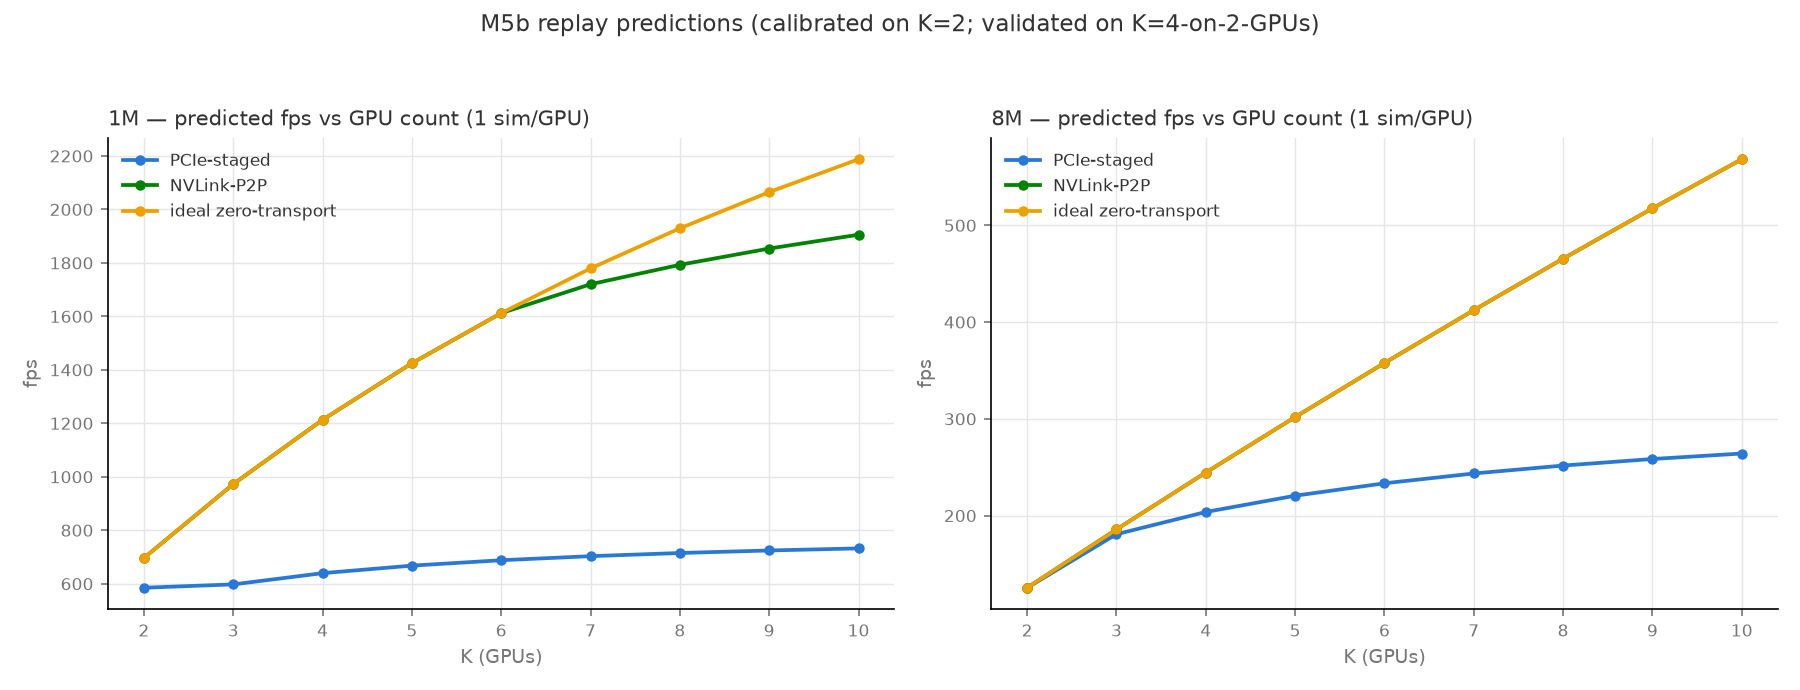
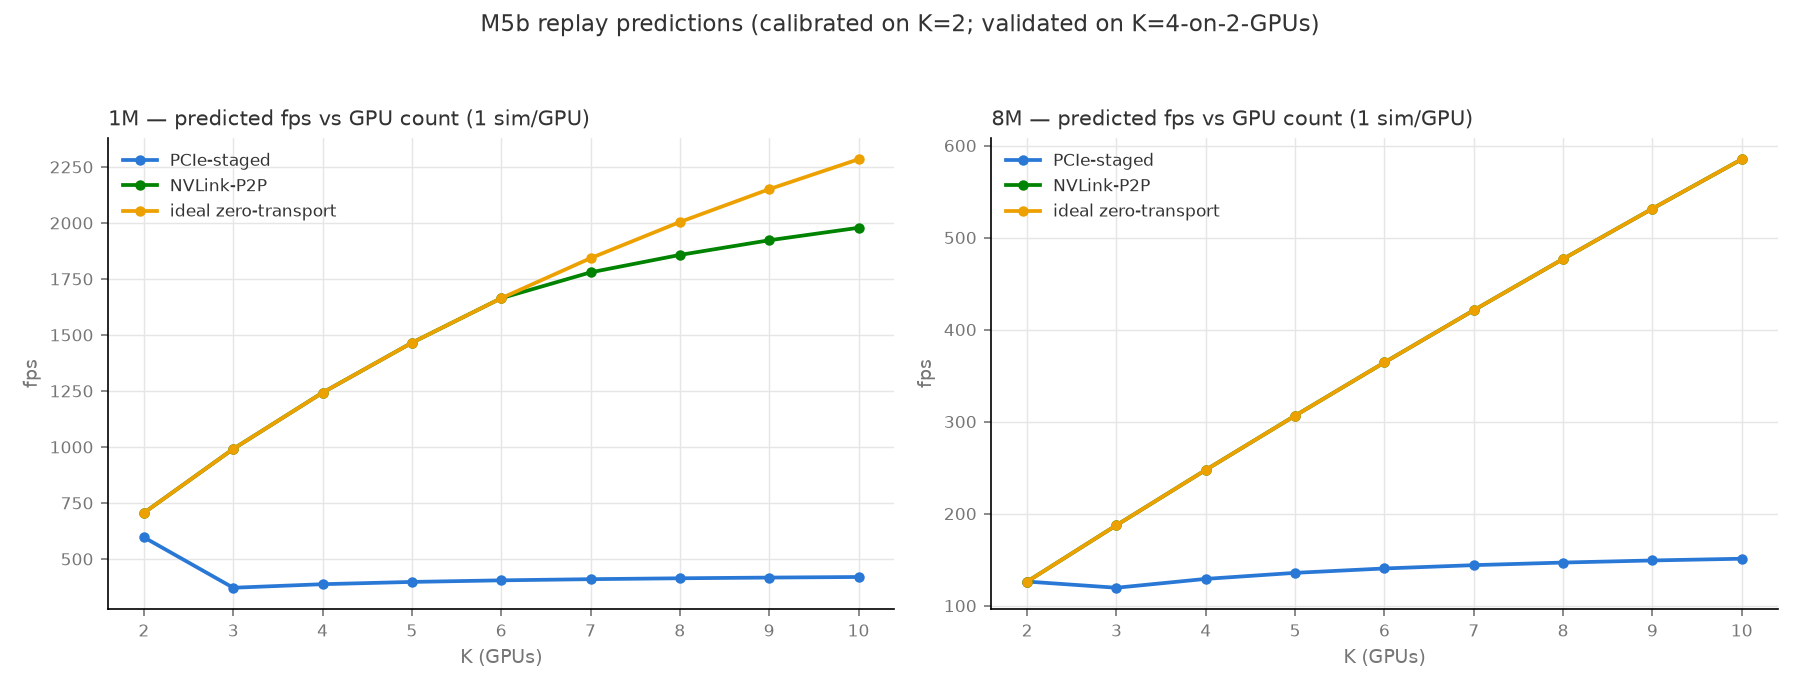
V5 M5b: host memcpy serialization model — zero-fit validation PASS
The post-reboot 1M K-sweep re-measurement (393/298/215/161 fps for
K=3/4/6/8) exposed the real oversubscription physics: period is ~LINEAR
in K (+~780us/sim at 1M) — worker memcpys SERIALIZE on the shared host
beyond the 2-concurrent baseline embedded in the K=2-measured durations
(1M K=8: 14 x 412us = 5.8ms ~= the 6.2ms period; 8M K=8: 14 x 1158us =
16.2ms ~= 17.1ms). The coresidency-alpha model is retired (needed
per-case fits, still missed K=3 by 37%; cache-thrash story also
contradicted by capacity arithmetic).

replay gains memcpy_channels (multi-server host-copy resource);
channels=1 for K>=3, parallel at K=2 (inputs measured under that
concurrency). Validation: ALL 7 oversubscribed points within +-9.1%
with ZERO oversubscription-specific fitted parameters — the +-10%
gate PASSES.

Cluster predictions corrected (the 10x3090 is a SINGLE HOST — staged
copies serialize there too): 8M host-staged PLATEAUS at ~130-151 fps
from K=4 to K=10 while NVLink-P2P scales near-linearly to 585 fps —
3.9x at K=10. Host-staged transport fundamentally does not scale in
GPU count on one host; the NVLink backend is a necessity, not an
optimization. 1M staged even inverts (596 -> ~400 going K=2 -> 3+).

Calibration anchors refreshed to post-reboot clean baselines
(dirty-driver -12% anomaly resolved by reboot; segments drifted <=4%).

diff --git a/experiment/v5/_run_v5_replay.py b/experiment/v5/_run_v5_replay.py
@@ -43,17 +43,16 @@ from experiment.v5.utils.replay_v5 import (
 MEASURED = {
     "1M": {
         "phase_a": 78.6, "phase_b": 564.5, "phase_c": 580.9,
-        "readback_dma": 154.5, "upload_dma": 184.0, "memcpy": 418.5,
-        # measured references
-        "fps_dual_depth2": 585.0,     # M3.3-era clean baseline (pre-TDR-storm
-                                      # driver state; today's 516 is flagged
-                                      # dirty in the M5a report)
-        "fps_chain_k2": 602.6,
+        "readback_dma": 153.3, "upload_dma": 177.7, "memcpy": 411.8,
+        # measured references — POST-REBOOT clean baselines (2026-07-21):
+        # the dirty-driver -12% depth-2 anomaly resolved on reboot.
+        "fps_dual_depth2": 596.7,
+        "fps_chain_k2": 606.5,
     },
     "8M": {
         "phase_a": 461.0, "phase_b": 4025.0, "phase_c": 3282.6,
-        "readback_dma": 489.2, "upload_dma": 546.8, "memcpy": 1167.8,
-        "fps_dual_depth2": 125.4,     # measured today (8M path is clean)
+        "readback_dma": 472.4, "upload_dma": 534.5, "memcpy": 1157.5,
+        "fps_dual_depth2": 126.2,     # post-reboot clean baseline
         "fps_k4_measured": 92.8,      # M4 campaign 50k
         "fps_k4_soak": 90.6,          # 30-min soak mean
     },
@@ -62,15 +61,16 @@ MEASURED = {
 # Blind-validation set: measured chain fps on 2 physical GPUs (M4 campaign
 # 50k steady, maps alternate 0,1,0,1,...). The context-switch parameter is
 # fit ONLY on 8M K=4; every other row is a no-refit prediction target.
+# Post-reboot re-measured sweep (2026-07-21, current code, clean driver).
 VALIDATION_POINTS = [
-    # (case, K, measured_fps, role)
-    ("8M", 4, 92.8, "FIT"),
-    ("8M", 6, 79.1, "blind"),
-    ("8M", 8, 58.5, "blind"),
-    ("1M", 3, 403.0, "blind"),
-    ("1M", 4, 330.8, "FIT"),
-    ("1M", 6, 226.5, "blind"),
-    ("1M", 8, 162.3, "blind"),
+    # (case, K, measured_fps, note)
+    ("1M", 3, 393.2, ""),
+    ("1M", 4, 298.4, ""),
+    ("1M", 6, 215.2, ""),
+    ("1M", 8, 160.9, ""),
+    ("8M", 4, 92.8, "pre-reboot m4 campaign"),
+    ("8M", 6, 79.1, "pre-reboot m4 campaign"),
+    ("8M", 8, 58.5, "pre-reboot m4 campaign"),
 ]
 
 
@@ -159,50 +159,37 @@ def main() -> int:
 
     print()
     print("=" * 72)
-    print("Stage 2 — oversubscription: fit context_switch on 8M K=4, "
-          "blind-validate the rest")
+    print("Stage 2 — oversubscription validation: host memcpy serialization "
+          "model, zero fitted parameters")
     print("=" * 72)
 
-    def replay_chain(tag, slab_count, alpha):
+    # ZERO-parameter oversubscription model (2026-07-21 breakthrough):
+    # the post-reboot K-sweep showed period ~linear in K — worker memcpys
+    # SERIALIZE on the shared host beyond the 2-concurrent baseline that
+    # the K=2-measured memcpy durations already embed. memcpy_channels=1
+    # for K>=3 (marginal copies serialize); K=2 keeps parallel (inputs
+    # were measured under exactly that 2-way concurrency). The former
+    # coresidency-alpha model is retired (it needed per-case fits and
+    # still missed K=3 by 37%).
+    print(f"{'case':>4} {'K':>3} {'measured':>9} {'replay':>9} "
+          f"{'error':>8}")
+    worst = 0.0
+    for tag, slab_count, measured_fps, _ in VALIDATION_POINTS:
         case_data = MEASURED[tag]
         device_map_chain = [index % 2 for index in range(slab_count)]
         sims, links = build_k_chain(case_data, slab_count,
-                                    device_map_chain, alpha)
-        return replay(sims, links, device_map_chain,
-                      ReplayParams(host_overhead_us=overhead[tag]))
-
-    # Per-case coresidency alpha, fit on that case's K=4 row only.
-    alphas = {}
-    for tag in MEASURED:
-        fit_rows = [(t, k, fps) for t, k, fps, role in VALIDATION_POINTS
-                    if t == tag and role == "FIT"]
-        if not fit_rows:
-            continue
-        _, fit_k, fit_fps = fit_rows[0]
-        low, high = 0.0, 2.0
-        for _ in range(40):
-            mid = 0.5 * (low + high)
-            if replay_chain(tag, fit_k, mid).steady_fps > fit_fps:
-                low = mid
-            else:
-                high = mid
-        alphas[tag] = 0.5 * (low + high)
-        print(f"{tag}: coresidency alpha fit on K={fit_k} "
-              f"(target {fit_fps}) -> {alphas[tag]:.3f} "
-              f"(+{100 * alphas[tag]:.0f}% kernel slowdown per coresident)")
-
-    print(f"\n{'case':>4} {'K':>3} {'measured':>9} {'replay':>9} "
-          f"{'error':>8}  role")
-    worst_blind = 0.0
-    for tag, slab_count, measured_fps, role in VALIDATION_POINTS:
-        predicted = replay_chain(tag, slab_count, alphas[tag]).steady_fps
-        error = 100 * (predicted - measured_fps) / measured_fps
-        if role == "blind":
-            worst_blind = max(worst_blind, abs(error))
+                                    device_map_chain, 0.0)
+        channels = 0 if slab_count <= 2 else 1
+        res = replay(sims, links, device_map_chain,
+                     ReplayParams(host_overhead_us=overhead[tag],
+                                  memcpy_channels=channels))
+        error = 100 * (res.steady_fps - measured_fps) / measured_fps
+        worst = max(worst, abs(error))
         print(f"{tag:>4} {slab_count:>3} {measured_fps:>9.1f} "
-              f"{predicted:>9.1f} {error:>+7.1f}%  {role}")
-    print(f"\nworst blind error: {worst_blind:.1f}% "
-          f"({'PASS' if worst_blind <= 10.0 else 'NEEDS WORK'} vs ±10% bar)")
+              f"{res.steady_fps:>9.1f} {error:>+7.1f}%")
+    print(f"\nworst error (all points, ZERO oversubscription-specific "
+          f"fits): {worst:.1f}% ({'PASS' if worst <= 10.0 else 'NEEDS WORK'}"
+          f" vs ±10% bar)")
 
     print()
     print("=" * 72)
@@ -234,7 +221,11 @@ def main() -> int:
                     host_overhead_us=overhead[tag],
                     sched_gap_us=override.get("sched", 44.8),
                     sem_latency_us=override.get("sem", 35.8))
-                # 1 sim per GPU — the real-cluster shape.
+                # 1 sim per GPU — the real-cluster shape. The 10x3090 is
+                # a SINGLE HOST: staged memcpys serialize there too
+                # (channels=1); P2P/ideal transports have no memcpy.
+                if mod["memcpy"] > 0 and slab_count > 2:
+                    params.memcpy_channels = 1
                 res = replay(sims, links, list(range(slab_count)), params)
                 row.append(res.steady_fps)
             rows[slab_count] = row

diff --git a/experiment/v5/utils/replay_v5.py b/experiment/v5/utils/replay_v5.py
@@ -57,6 +57,12 @@ class ReplayParams:
     sem_latency_us: float = 35.8     # upload landed -> phase C start (M5a)
     host_overhead_us: float = 0.0    # fit on K=2 calibration
     worker_wakeup_us: float = 0.0    # folded into host_overhead by default
+    memcpy_channels: int = 0         # >0: worker memcpys contend for this
+                                     # many host-RAM channels (the 1M/8M
+                                     # K-sweep shows period ~linear in K —
+                                     # memcpys serialize on host memory
+                                     # bandwidth, NOT kernel cache thrash);
+                                     # 0 = unlimited (legacy parallel)
     context_switch_us: float = 0.0   # engine cost when consecutive batches
                                      # belong to DIFFERENT VkDevices on one
                                      # physical device (WDDM context switch;
@@ -144,14 +150,29 @@ def replay(sims: list, links: list, device_map: list,
                 a_done[i], sim.phase_b, owner=i)
 
         # Workers: memcpy after BOTH endpoint readbacks (guard included).
+        # With memcpy_channels > 0, memcpys contend for host RAM channels:
+        # earliest-ready first, each assigned to the earliest-free channel.
         worker_done = {}
+        ready_list = []
         for link in links:
             src_rb = rb_done[(link.source_index, link.source_direction)]
             dst_rb = rb_done[(link.destination_index,
                               link.destination_direction)]
-            start = max(src_rb, dst_rb) + params.worker_wakeup_us
-            worker_done[(link.destination_index,
-                         link.destination_direction)] = start + link.memcpy
+            ready = max(src_rb, dst_rb) + params.worker_wakeup_us
+            ready_list.append((ready, link))
+        if params.memcpy_channels > 0:
+            channel_free = [0.0] * params.memcpy_channels
+            for ready, link in sorted(ready_list, key=lambda item: item[0]):
+                channel = min(range(len(channel_free)),
+                              key=lambda c: channel_free[c])
+                start = max(ready, channel_free[channel])
+                channel_free[channel] = start + link.memcpy
+                worker_done[(link.destination_index,
+                             link.destination_direction)] = start + link.memcpy
+        else:
+            for ready, link in ready_list:
+                worker_done[(link.destination_index,
+                             link.destination_direction)] = ready + link.memcpy
 
         # Uploads (dest transfer queue, FIFO behind that device's readbacks).
         upload_done = [0.0] * sim_count
